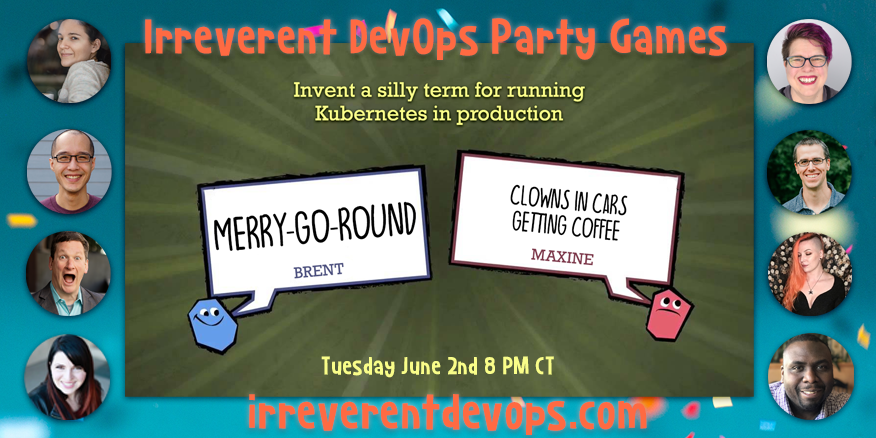
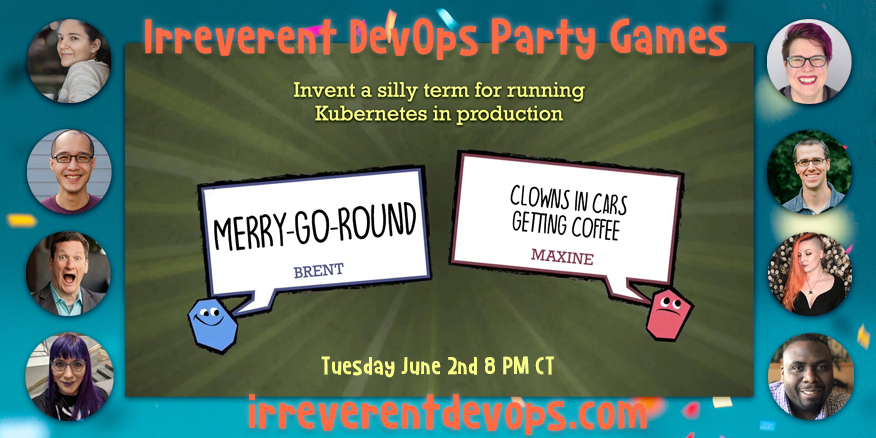
Swap out Amy for Jessica episode 1

Changed region(s): [[0.0308, 0.742, 0.1541, 0.9795]]

diff --git a/src/pages/posts/Episode-1.md b/src/pages/posts/Episode-1.md
@@ -20,7 +20,7 @@ Join the livestream at [twitch.tv/mattstratton](https://twitch.tv/mattstratton)
 <a href = "https://twitter.com/quinnypig" class = "player-episode-page" target = "_blank"><img src = "/images/players/corey.png" alt="Corey Quinn" width="200" height="100" class = "player-episode-page"></a>
 <a href = "https://twitter.com/Dixie3Flatline" class = "player-episode-page" target = "_blank"><img src = "/images/players/kat.png" alt="Kat Cosgrove" width="200" height="100" class = "player-episode-page"></a>
 <a href = "https://twitter.com/gitbisect" class = "player-episode-page" target = "_blank"><img src = "/images/players/jason.png" alt="Jason Yee" width="200" height="100" class = "player-episode-page"></a>
-<a href = "https://twitter.com/jessicaewest" class = "player-episode-page" target = "_blank"><img src = "/images/players/jessicawest.png" alt="Jessica West" width="200" height="100" class = "player-episode-page"></a>
+<a href = "https://twitter.com/MissAmyTobey" class = "player-episode-page" target = "_blank"><img src = "/images/players/amytobey.png" alt="Amy Tobey" width="200" height="100" class = "player-episode-page"></a>
 <a href = "https://twitter.com/DarkAndNerdy" class = "player-episode-page" target = "_blank"><img src = "/images/players/jeffsmith.png" alt="Jeff Smith" width="200" height="100" class = "player-episode-page"></a>
 
 <br clear = "all">
